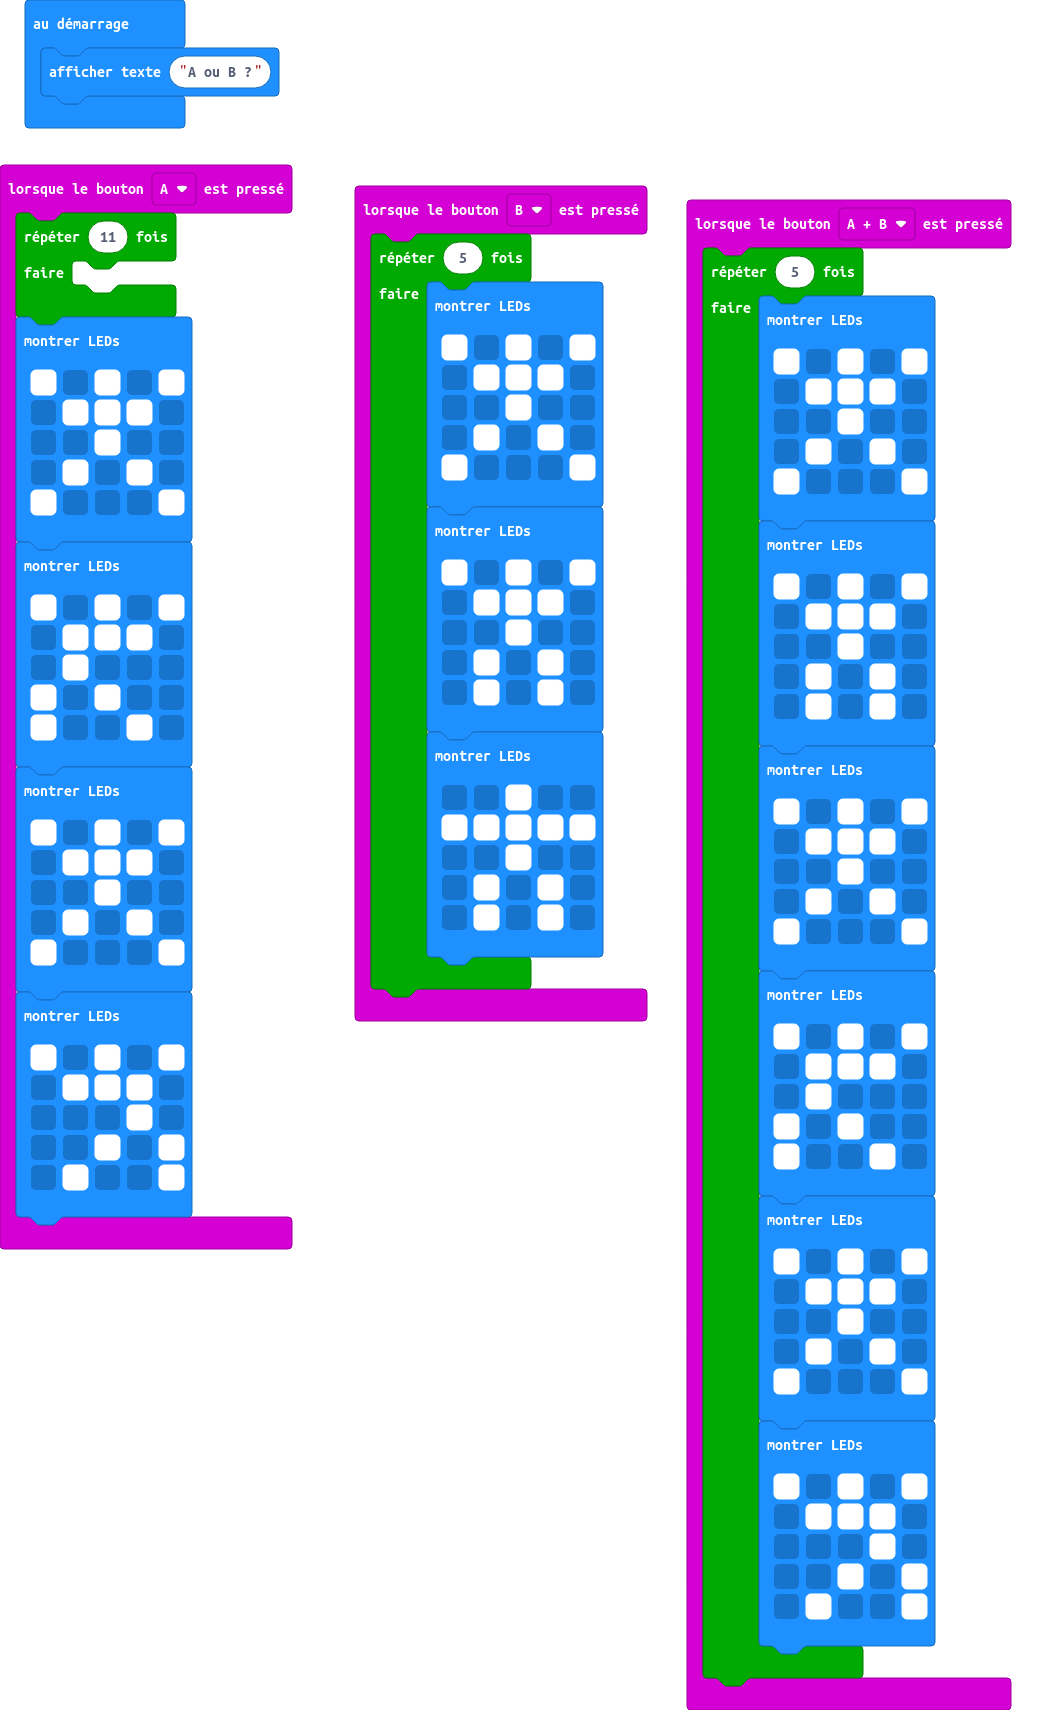
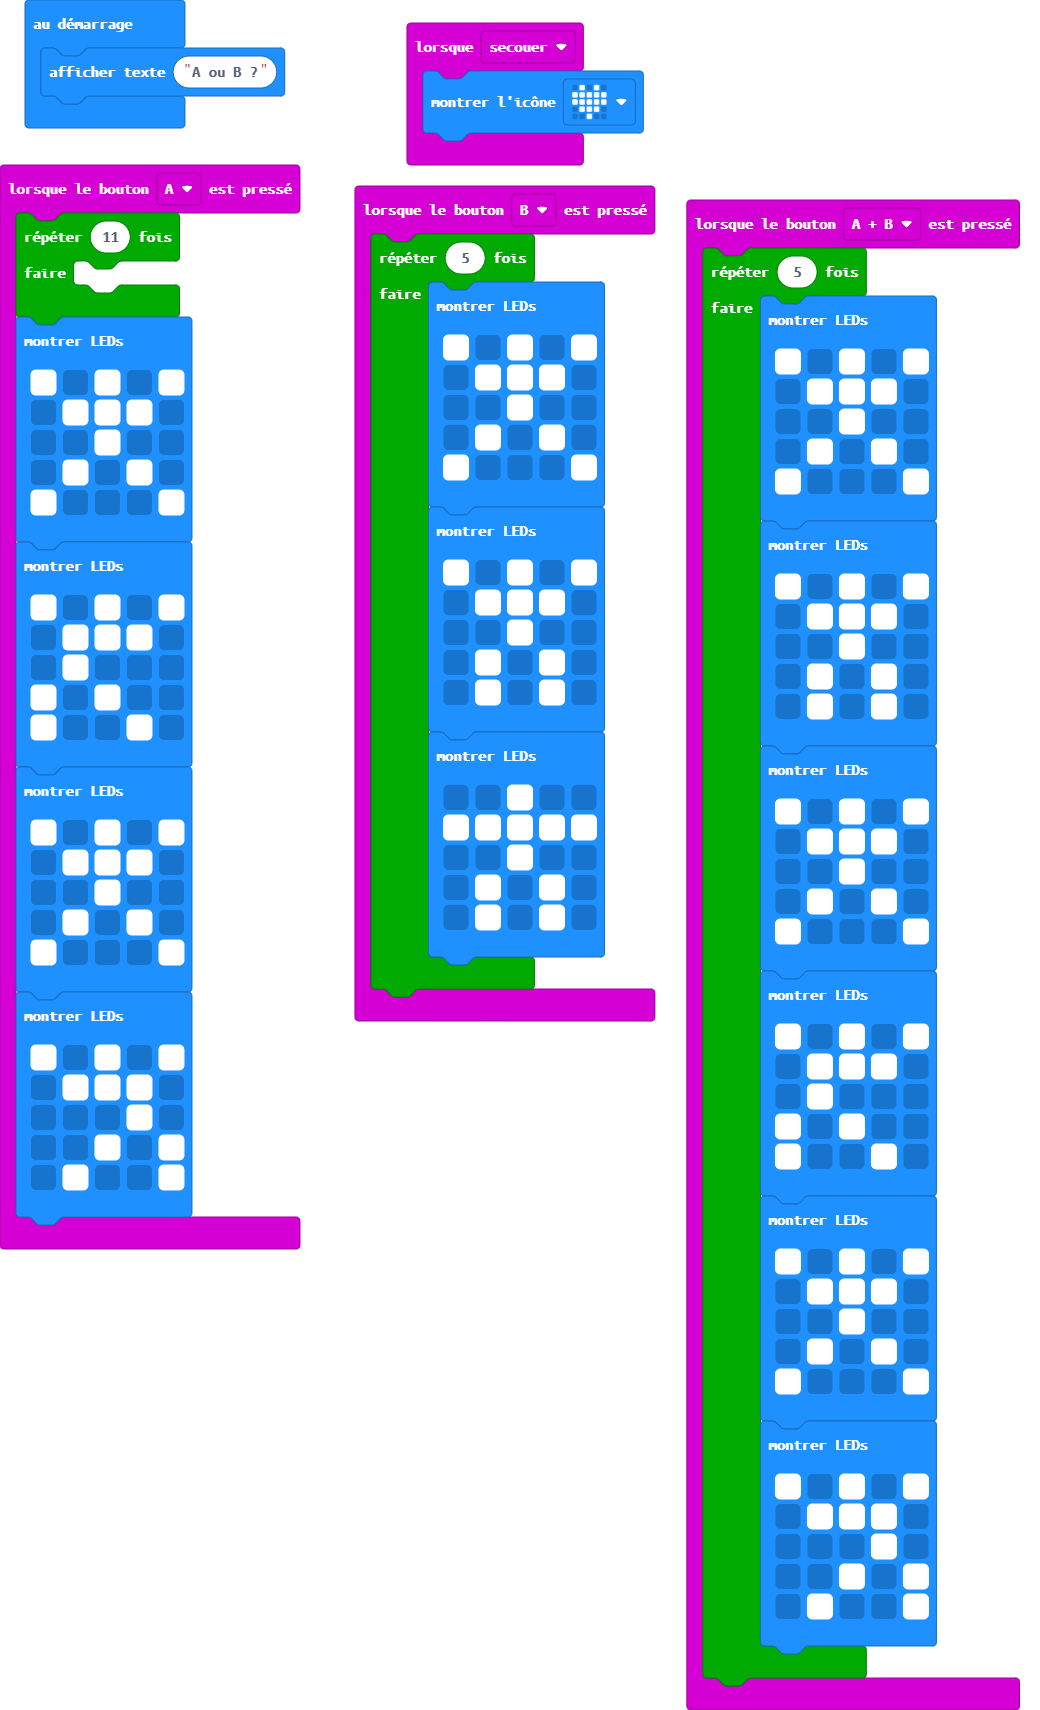
Mise à jour main.blocks, main.ts

diff --git a/main.ts b/main.ts
@@ -102,4 +102,7 @@ input.onButtonPressed(Button.B, function () {
             `)
     }
 })
+input.onGesture(Gesture.Shake, function () {
+    basic.showIcon(IconNames.Heart)
+})
 basic.showString("A ou B ?")
